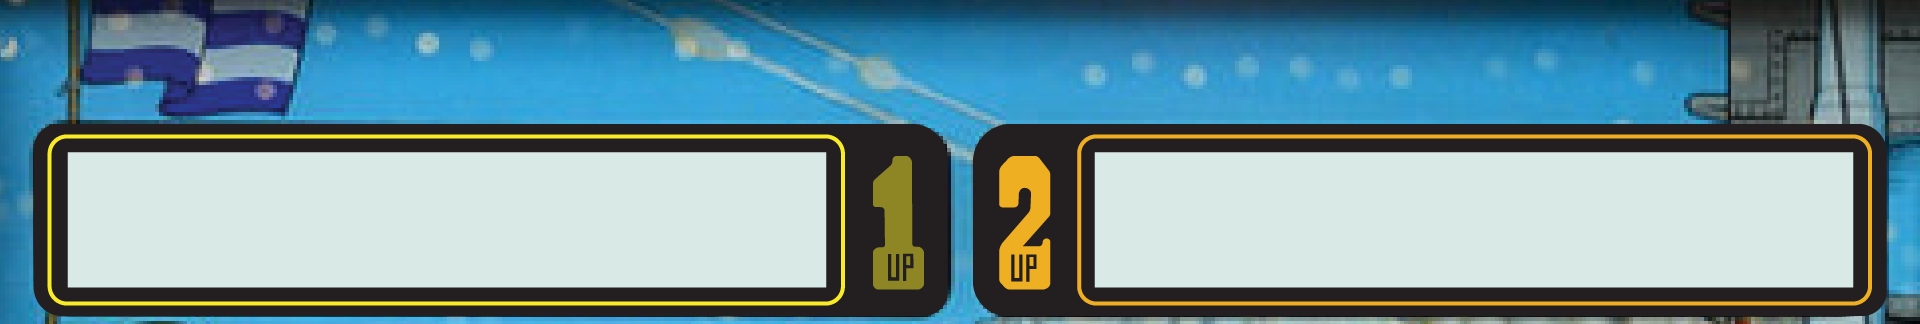
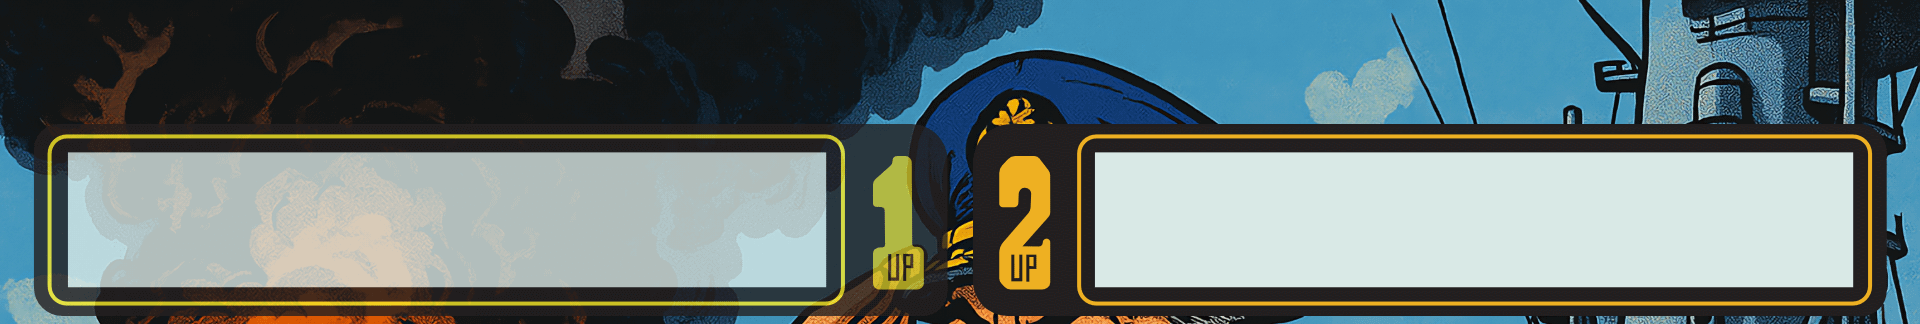
feat: update static backbox art

diff --git a/tests/test_displays.py b/tests/test_displays.py
@@ -10,7 +10,7 @@ class TestDisplays(FullMachineTestCase):
             [x.text for x in current_widgets])
         self.assertIn('Reimagined by:',
             [x.text for x in current_widgets])
-        self.assertIn('Pinball Plaid',
+        self.assertIn('Death Save Pinball Cult',
             [x.text for x in current_widgets])
 
         self.hit_and_release_switch("s_start")
